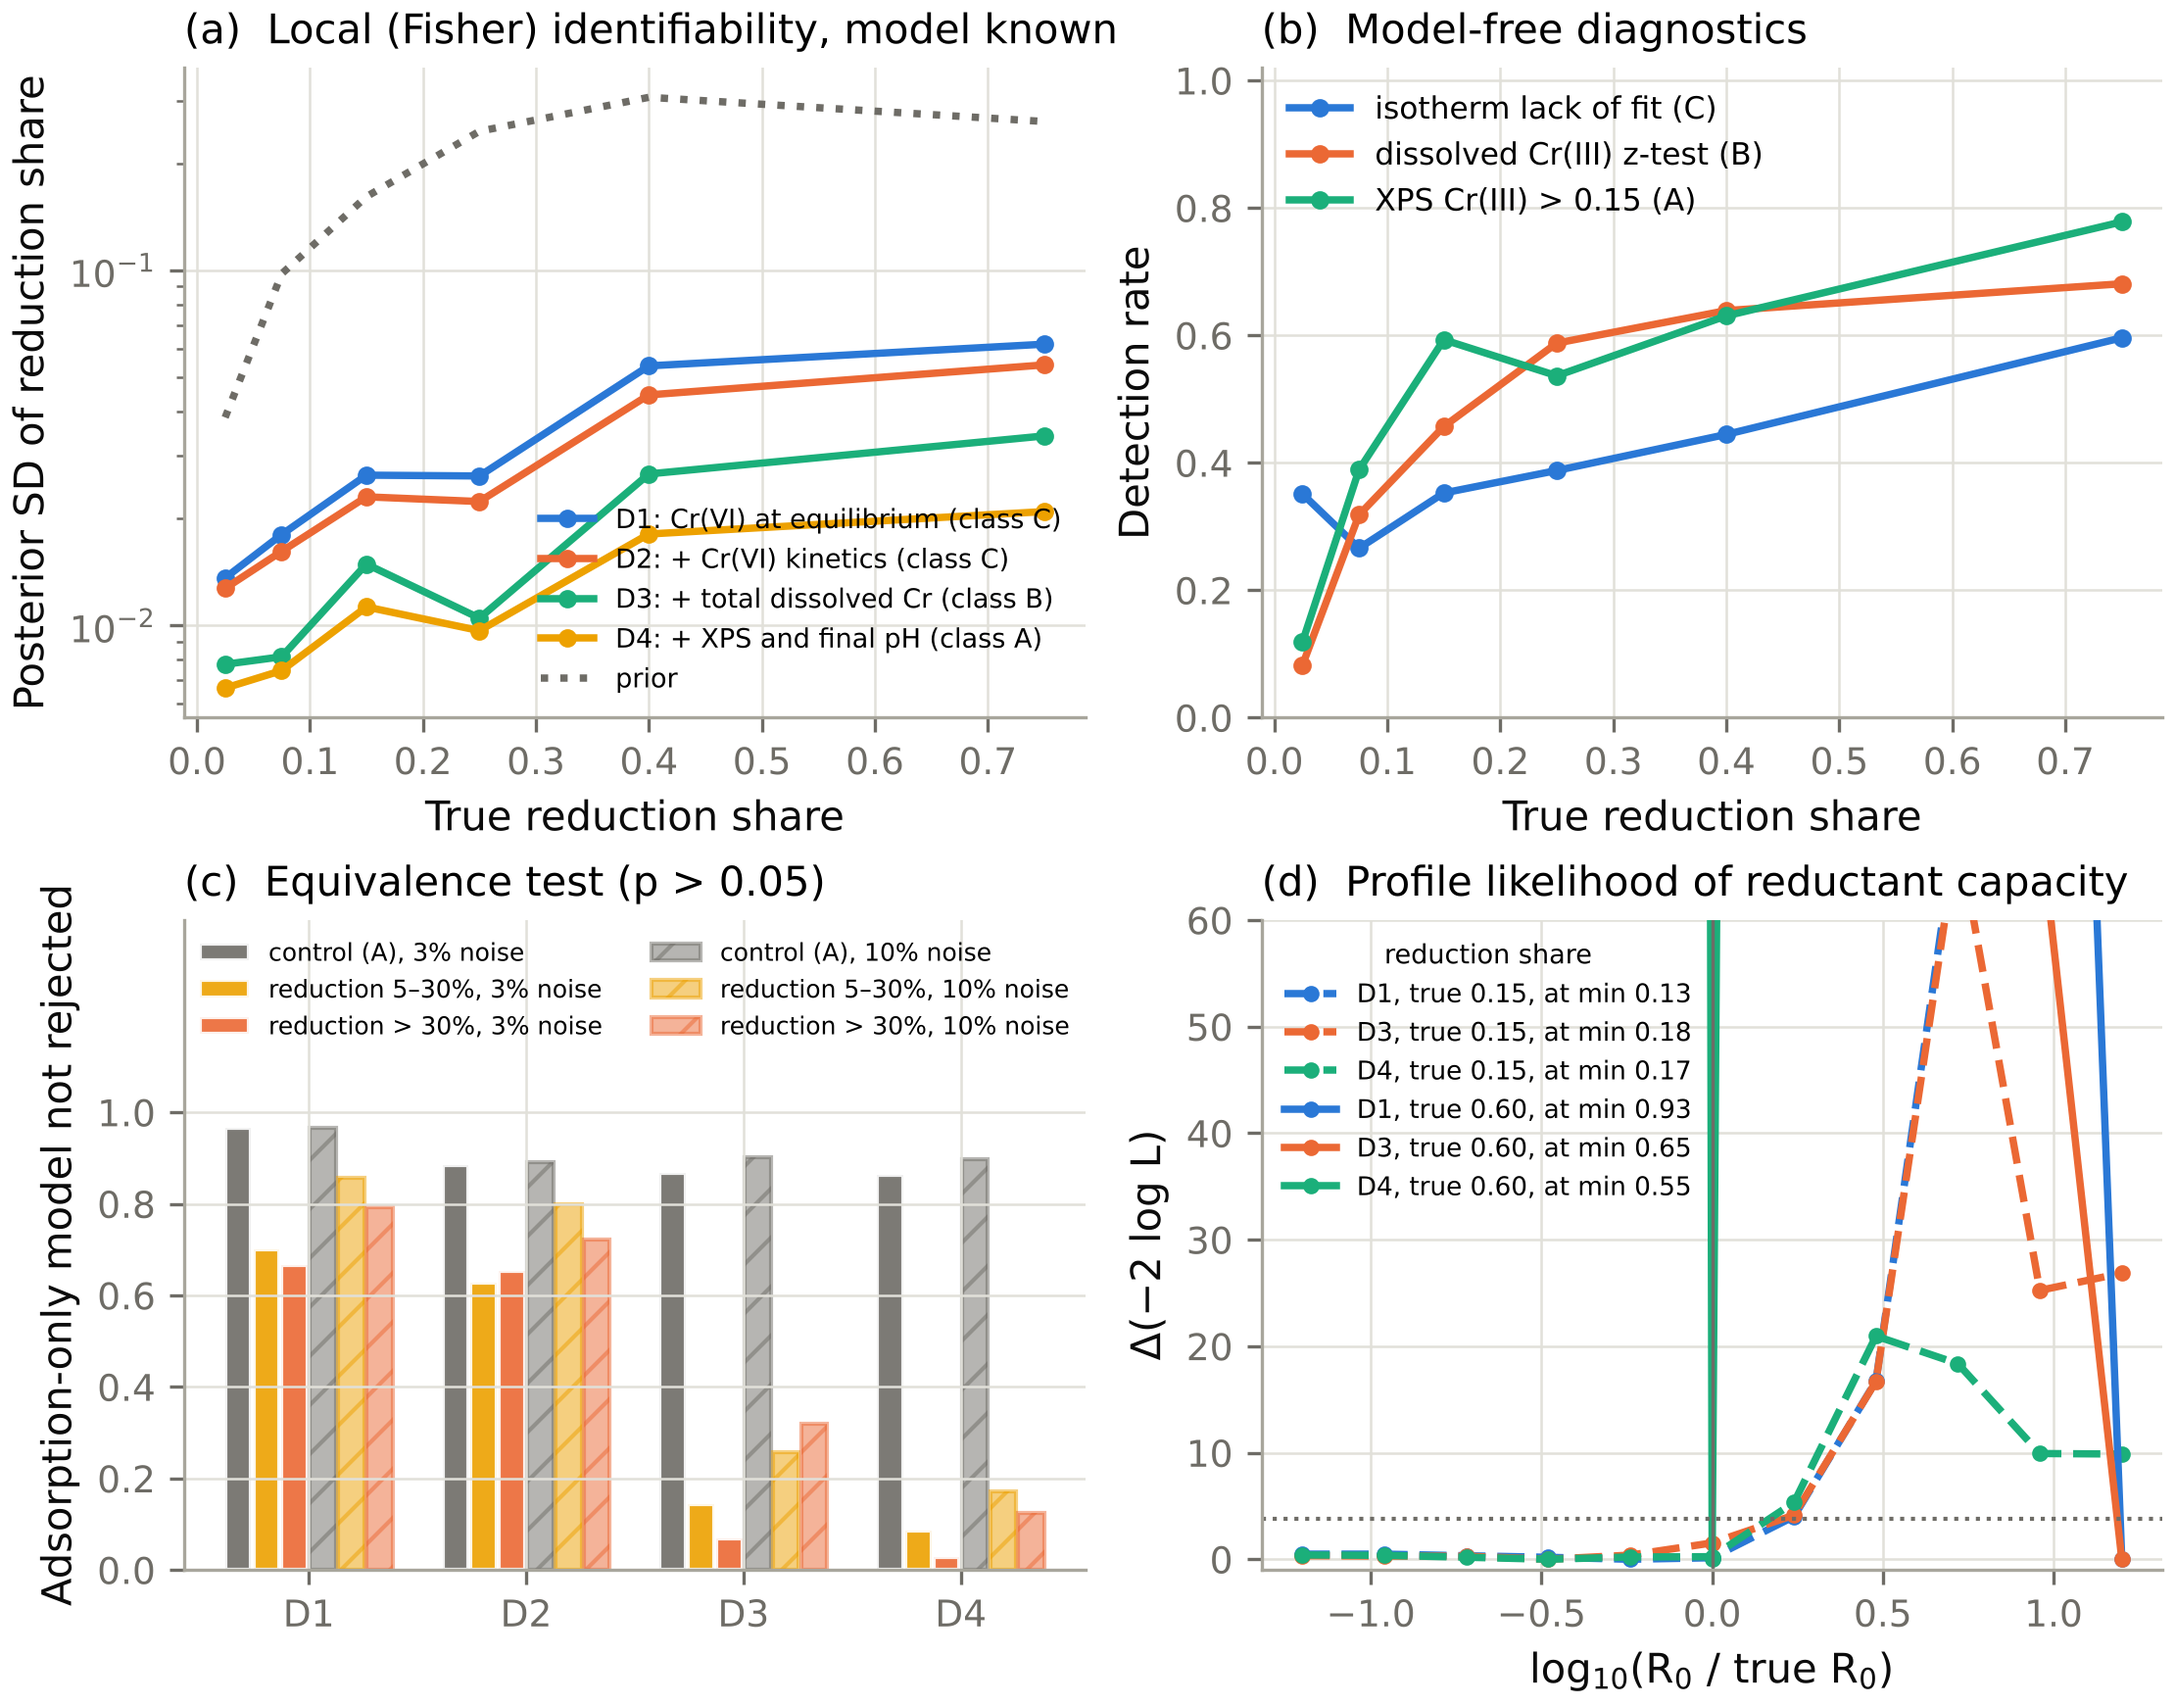
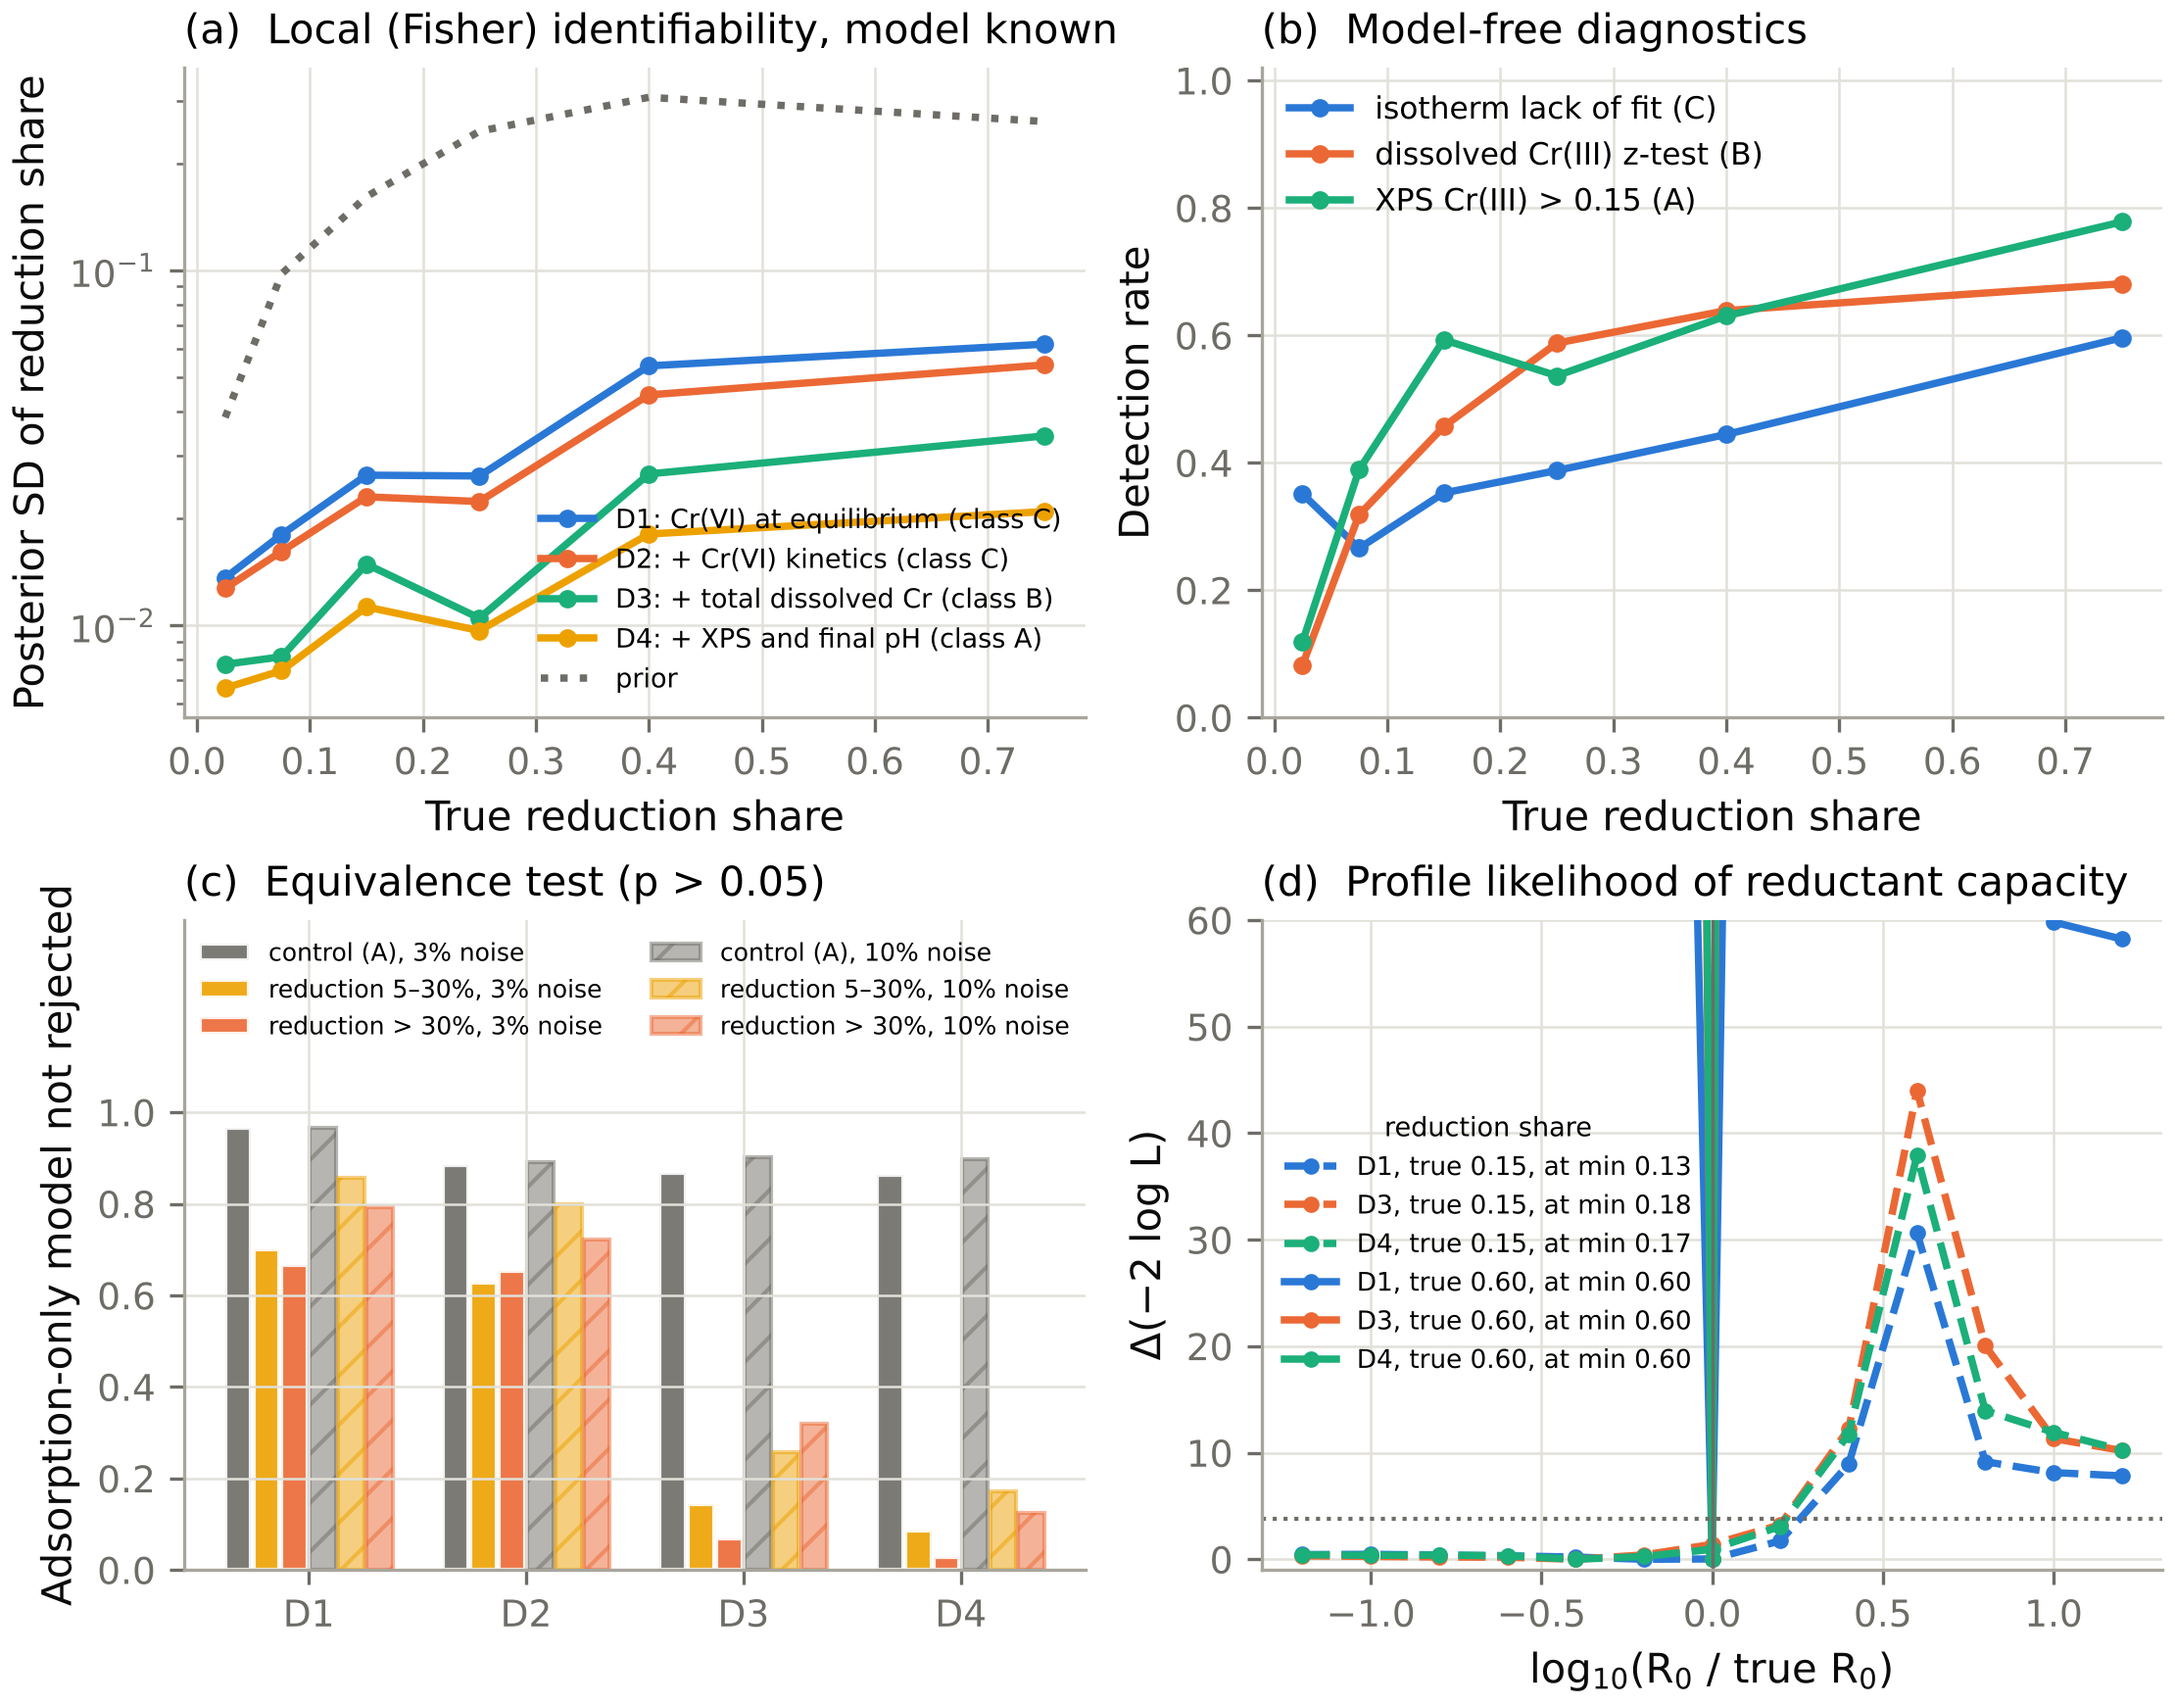
Add converged profile-likelihood results and figure
Claude-Session: https://claude.ai/code/session_01GFzJmQTFtMep2it1kYJtwA

diff --git a/cassia/manuscript/_v2_results_A.md b/cassia/manuscript/_v2_results_A.md
@@ -128,7 +128,11 @@ In scenario E the removed chromium was distributed as follows (medians): 0.62 ad
 - Residual Cr(VI) data therefore usually cannot exclude the hypothesis 'adsorption only', even when most of the Cr(VI) was reduced. The Cr(III) observations of Classes B and A usually can.
 - Kinetic Cr(VI) data (D2) add little, because conventional kinetic models are fitted with their own free equilibrium uptake.
 
-**Profile likelihood (Fig. 3d).** [PROFILE TEXT]
+**Profile likelihood (Fig. 3d).** All profile points converged; the minimum −2 log L was consistent with the number of observations (3.4 for n = 14 under D1; 21–79 for n = 44–61 under D3/D4).
+
+- *Low-reduction study (true share 0.15).* The reductant capacity R₀ was practically non-identifiable. The 95% profile region extended from at least 16-fold below to 1.6-fold above the true value under every design. The implied reduction share nevertheless stayed within 0.13–0.14 (D1) and 0.17–0.18 (D3, D4). A share can be well determined while the parameter that generates it is not, *provided the model structure is correct*.
+- *High-reduction study (true share 0.60).* R₀ was sharply identified, within one grid step of 0.2 log units, under all designs. The share at the minimum was 0.601 in each case.
+- *Caveat.* The profiles use the known model structure and include the true parameters among the optimiser starts. They therefore show identifiability under the correct model, not the ease of estimation. The equivalence test removes that assumption, and under it Class C data lose most of their discriminating power.
 
 **Misreported metadata.**
 - Analysing the data at a pH 0.5 units above the true value biased the inferred reduction share by a median of 0.032 (90th percentile 0.157) under D1, and by 0.024 (0.092) under D3.
@@ -137,4 +141,4 @@ In scenario E the removed chromium was distributed as follows (medians): 0.62 ad
 
 ![Fig. 3](figures/fig3_identifiability.png)
 
-**Fig. 3.** Mechanism identifiability by measurement design (synthetic). (a) Laplace-posterior SD of the reduction share assuming the true model structure (median per bin; dotted: prior). (b) Detection rates of three model-free diagnostics. (c) Fraction of studies in which a flexible adsorption-only model is not rejected (χ² p > 0.05), for paired pure-adsorption controls and for studies with moderate or high reduction, at 3% and 10% analytical noise. (d) Profile likelihood of the reductant capacity for one low-reduction and one high-reduction study; the legend gives the true reduction share and the share at the profile minimum.
+**Fig. 3.** Mechanism identifiability by measurement design (synthetic). (a) Laplace-posterior SD of the reduction share assuming the true model structure (median per bin; dotted: prior). (b) Detection rates of three model-free diagnostics. (c) Fraction of studies in which a flexible adsorption-only model is not rejected (χ² p > 0.05), for paired pure-adsorption controls and for studies with moderate or high reduction, at 3% and 10% analytical noise. (d) Profile likelihood of the reductant capacity for one low-reduction (dashed; non-monotone, with a secondary basin above 6× R₀) and one high-reduction (solid) study under D1, D3 and D4. The legend gives the true reduction share and the share at the profile minimum; dotted line, 95% threshold (3.84).
